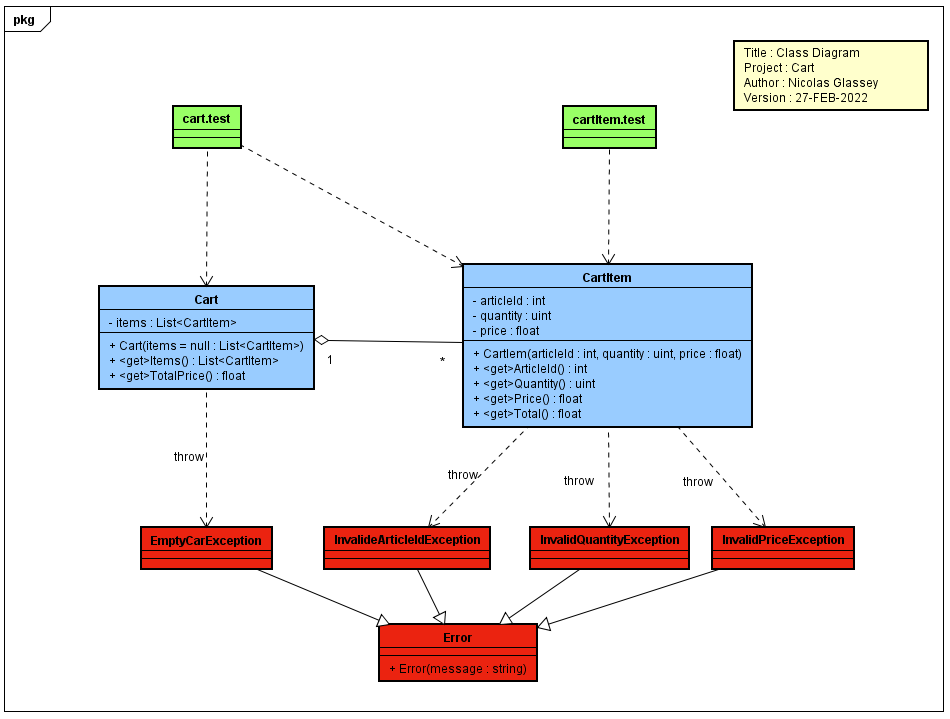
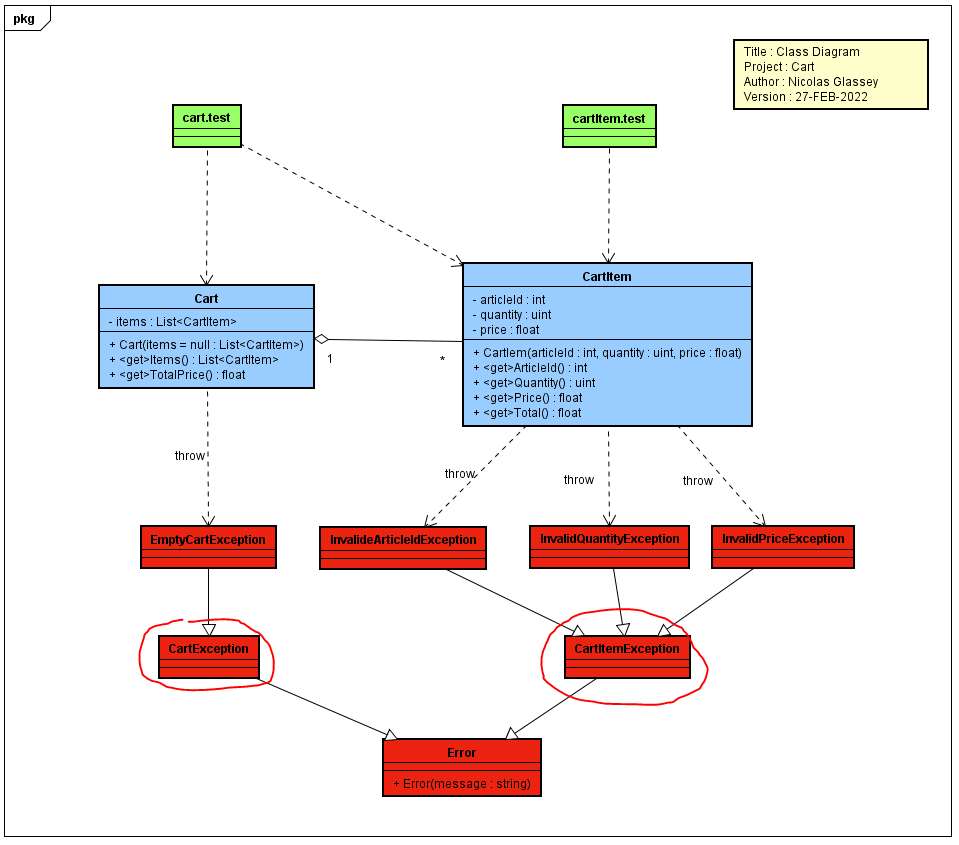
Add Exception Tests Cases For CartItem

diff --git a/src/CartItem.js b/src/CartItem.js
@@ -11,9 +11,9 @@
 module.exports = class CartItem {
 
     //region private attributes
-    articleId;
-    quantity;
-    price;
+    #articleId;
+    #quantity;
+    #price;
     //endregion private attributes
 
     //region public methods
@@ -27,39 +27,61 @@ module.exports = class CartItem {
      * @exception InvalidPriceException is thrown when the price is smaller than 10.
      */
     constructor(articleId, quantity, price) {
-        this.articleId = articleId;
-        this.quantity = quantity;
-        this.price = price;
+        this.#articleId = articleId;
+        this.#quantity = quantity;
+        this.#price = price;
     }
     /**
      * @brief This property gets the article id
      */
     get ArticleId() {
-        return this.articleId;
+        return this.#articleId;
     }
 
     /**
      * @brief This property gets the quantity
      */
     get Quantity() {
-        return this.quantity;
+        return this.#quantity;
     }
 
     /**
      * @brief This property gets the price
      */
     get Price() {
-        return this.price;
+        return this.#price;
     }
 
     /**
      * @brief This property gets the total
      */
     get Total() {
-        return this.quantity * this.price;
+        return this.#quantity * this.#price;
     }
     //endregion public methods
 
     //region private methods
     //endregion private methods
 }
+
+class Error {
+    constructor(message) {
+        this.message = message;
+    }
+}
+
+class CartItemException extends Error{
+}
+
+module.exports = class InvalidArticleIdException extends CartItemException{
+}
+
+module.exports = class InvalidQuantityException extends CartItemException{
+}
+
+module.exports = class InvalidPriceException extends CartItemException{
+}
+
+
+
+

diff --git a/src/tests/cartItem.test.js b/src/tests/cartItem.test.js
@@ -7,7 +7,11 @@
 
 "use strict";
 
-let CartItem = require('../CartItem.js');
+import CartItem from "../CartItem.js";
+
+const InvalidArticleIdException = require("../CartItem.js");
+const InvalidQuantityException = require("../CartItem.js");
+const InvalidPriceException = require("../CartItem.js");
 
 test('allGetters_NominalCase_Success', () => {
     //given
@@ -25,4 +29,43 @@ test('allGetters_NominalCase_Success', () => {
     expect(quantity).toEqual(cartItem.Quantity);
     expect(price).toEqual(cartItem.Price);
     expect(total).toEqual(cartItem.Total);
+})
+
+test('constructor_InvalidArticleId_ThrowException', () => {
+    //given
+    let articleId = -1;//Invalid article id (smaller than 1)
+    let quantity = 10;
+    let price = 20;
+
+    //when
+    expect(() => new CartItem(articleId, quantity, price)).toThrow(InvalidArticleIdException);
+
+    //then
+    //Exception is thrown
+})
+
+test('constructor_InvalidQuantity_ThrowException', () => {
+    //given
+    let articleId = 1;
+    let quantity = -10;//Invalid article id (smaller than 1)
+    let price = 20;
+
+    //when
+    expect(() => new CartItem(articleId, quantity, price)).toThrow(InvalidQuantityException);
+
+    //then
+    //Exception is thrown
+})
+
+test('constructor_InvalidPrice_ThrowException', () => {
+    //given
+    let articleId = 1;
+    let quantity = 10;
+    let price = 9;//Invalid price (smaller than 10)
+
+    //when
+    expect(() => new CartItem(articleId, quantity, price)).toThrow(InvalidPriceException);
+
+    //then
+    //Exception is thrown
 })

diff --git a/src/Cart.js b/src/Cart.js
@@ -11,7 +11,7 @@
 module.exports = class Cart{
 
     //region private attributes
-    items = null;
+    #items = null;
     //endregion private attributes
 
     /**
